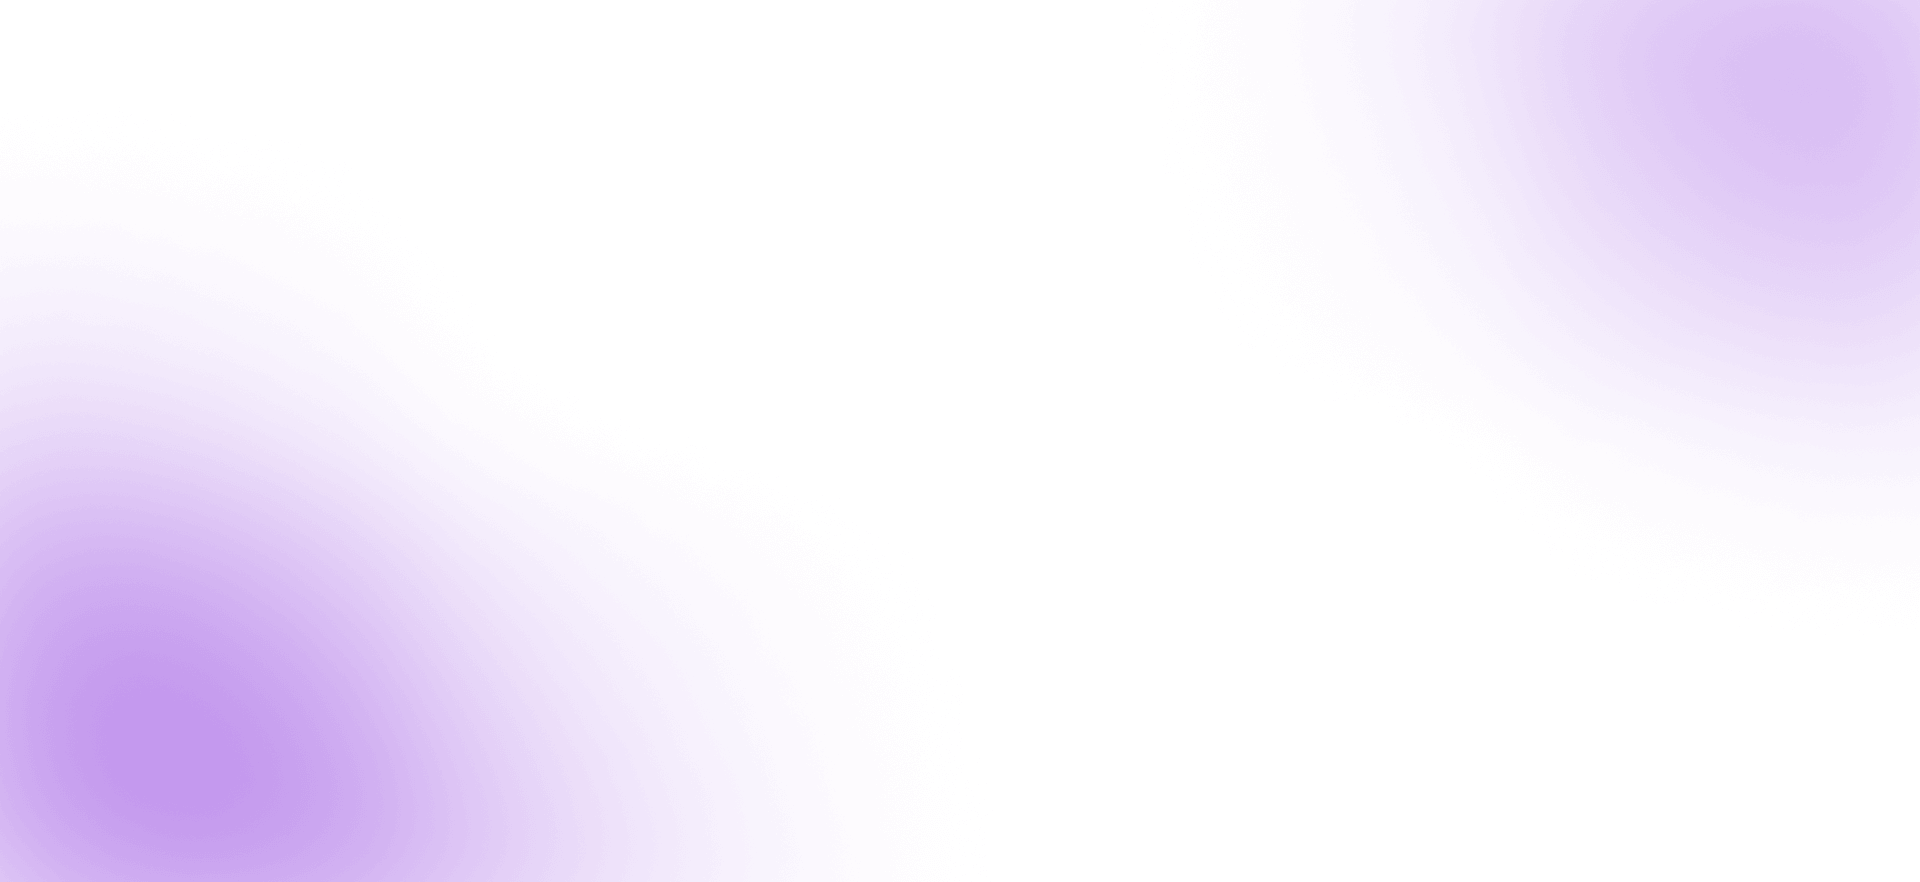
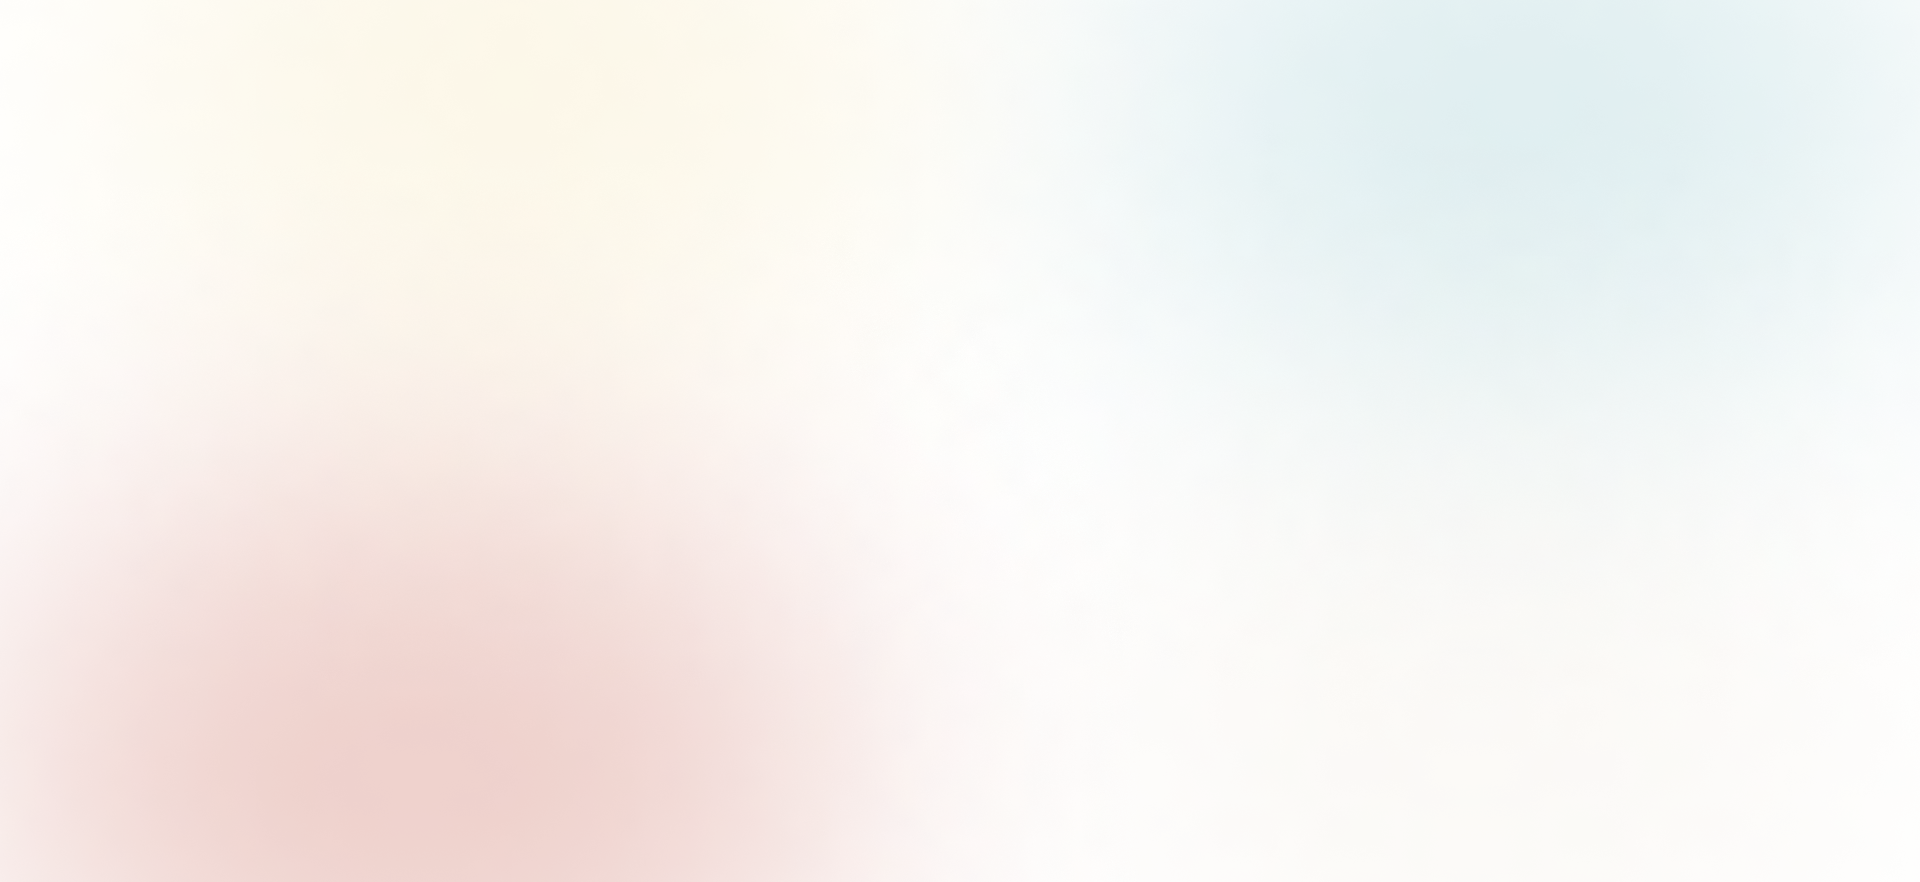
Customized Color Pallete

Changed region(s): [[0.0, 0.4286, 0.4375, 1.0], [0.8125, 0.0, 1.0, 0.4286]]

diff --git a/public/assets/css/style.scss b/public/assets/css/style.scss
@@ -102,10 +102,10 @@
     --font-fahkwang: 'Fahkwang', sans-serif;
     --font-unbounded: 'Unbounded', sans-serif;
     // Colors ---------------
-    --primary-color: #EC6219;
-    --primary-color2: #F4CB0A;
-    --primary-color3: #1A1A1A;
-    --primary-color4: #78EB54;
+    --primary-color: #BB4430;
+    --primary-color2: #F3DFA2 ;
+    --primary-color3: #7EBDC2;
+    --primary-color4: #EFE6DD;
     --title-color: #1A1A1A;
     --title-color-opc: 26, 26, 26;
     --dark-title-color: #1A1A1A;
@@ -2823,6 +2823,10 @@ body:not(.is-mobile) .tt-style-switch:hover {
     transition: all 0.8s ease-out 0s;
     gap: 30px;
     border-bottom: 1px solid rgba(#fff,0.08);
+    background-image: linear-gradient(#1A1A1A, #1A1A1A);
+    position: fixed;
+    top: 0;
+    z-index: 1000;
     
     @include seventeen-down-device{
         padding: 0px 3%;
@@ -19766,7 +19770,7 @@ footer{
         }
     }
     .contact-form-wrap{
-        background-color: #C5D1C3;
+        background-color: var(--primary-color2);
         border-radius: 10px;
         padding: 60px 50px;
         @include xl-up-device(){

diff --git a/public/assets/css/style.css b/public/assets/css/style.css
@@ -98,10 +98,10 @@
 :root {
   --font-fahkwang: "Fahkwang", sans-serif;
   --font-unbounded: "Unbounded", sans-serif;
-  --primary-color: #EC6219;
-  --primary-color2: #F4CB0A;
-  --primary-color3: #1A1A1A;
-  --primary-color4: #78EB54;
+  --primary-color: #BB4430;
+  --primary-color2: #F3DFA2 ;
+  --primary-color3: #7EBDC2;
+  --primary-color4: #EFE6DD;
   --title-color: #1A1A1A;
   --title-color-opc: 26, 26, 26;
   --dark-title-color: #1A1A1A;
@@ -2690,6 +2690,10 @@ body:not(.is-mobile) .tt-style-switch:hover {
   transition: all 0.8s ease-out 0s;
   gap: 30px;
   border-bottom: 1px solid rgba(255, 255, 255, 0.08);
+  background-image: linear-gradient(#1A1A1A, #1A1A1A);
+  position: fixed;
+  top: 0;
+  z-index: 1000;
 }
 @media (max-width: 1699px) {
   .header-area.style-2 {
@@ -19819,7 +19823,7 @@ footer.home6-footer .footer-btm .terms-condition p a:hover {
   fill: var(--white-color);
 }
 .contact-page .contact-form-wrap {
-  background-color: #C5D1C3;
+  background-color: var(--primary-color2);
   border-radius: 10px;
   padding: 60px 50px;
 }

diff --git a/src/app/contact/page.js b/src/app/contact/page.js
@@ -1,5 +1,9 @@
 import React from "react";
-import { contactInformation, defaultMetaData, logoUrl } from "../../../data/data";
+import {
+  contactInformation,
+  defaultMetaData,
+  logoUrl,
+} from "../../../data/data";
 
 export const metadata = {
   ...defaultMetaData,
@@ -149,7 +153,7 @@ const ContactPage = () => {
                     </div> */}
                   </div>
                   <div className="form-inner">
-                    <button className="primary-btn3 btn-hover" type="submit">
+                    <button className="primary-btn2 btn-hover" type="submit">
                       Submit Now
                       <svg
                         width={12}

diff --git a/src/app/page.js b/src/app/page.js
@@ -1,6 +1,5 @@
 import Home2About from "@/components/about/Home2About";
 import Home2BannerSection from "@/components/banner-section/home2-banner-section";
-import Home2ContactSection from "@/components/contact-section/home2-contact-section";
 import Home2CounterArea from "@/components/counter-area-section/home2-counter-area";
 import Home2PortfolioSection from "@/components/portfolio-section/home2-portfolio-section";
 import Home2ProcessSection from "@/components/process-section/home2-process-section";

diff --git a/src/app/our-work/_components/ProjectDetailsWrapper.js b/src/app/our-work/_components/ProjectDetailsWrapper.js
@@ -187,7 +187,7 @@ const ProjectDetailsWrapper = ({ projectData, prevData, nextData }) => {
           <div className="row g-lg-4 gy-3">
             {projectData.projectOverview.map((data, index) => {
               return (
-                <div className="col-lg-6">
+                <div key={index} className="col-lg-6">
                   <p className={`${index === 0 ? "first-para" : ""}`}>{data}</p>
                 </div>
               );

diff --git a/src/components/header/Header2.js b/src/components/header/Header2.js
@@ -4,14 +4,6 @@ import React, { useState } from "react";
 import Sidebar from "../common/Sidebar";
 import { contactInformation, logoUrl, navBarData } from "../../../data/data";
 
-const Menu = () => {
-  return (
-    <li key={index}>
-      <Link href={data.path}>{data.name}</Link>
-    </li>
-  );
-};
-
 const Header2 = () => {
   const [isMenuOpen, setMenuOpen] = useState(false);
 
